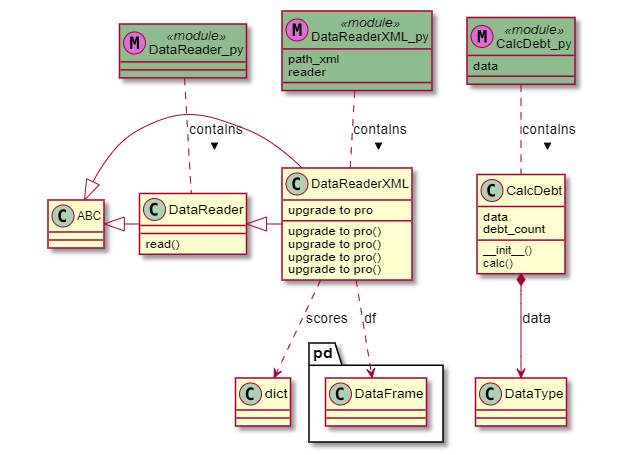
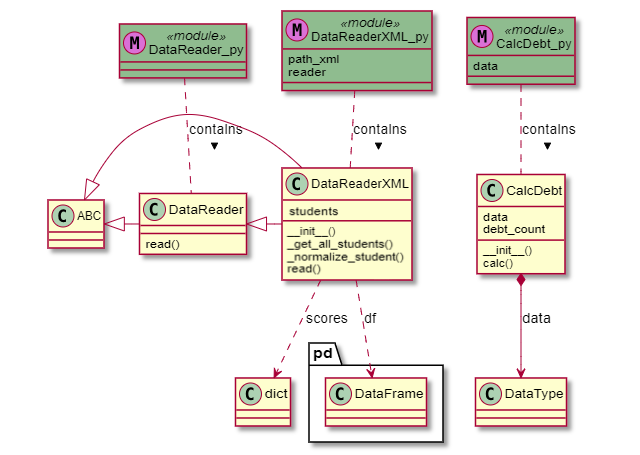
поменял uml

Changed region(s): [[0.4375, 0.4308, 0.625, 0.6154]]

diff --git a/README.md b/README.md
@@ -24,7 +24,7 @@
 
 ### Вариант №11
 
-![2023-09-12_09-22-35.png](image%2F2023-09-12_09-22-35.png)
+![2023-09-12_09-25-41 (1).png](image%2F2023-09-12_09-25-41%20%281%29.png)
 
 ### Вариант №10
 
